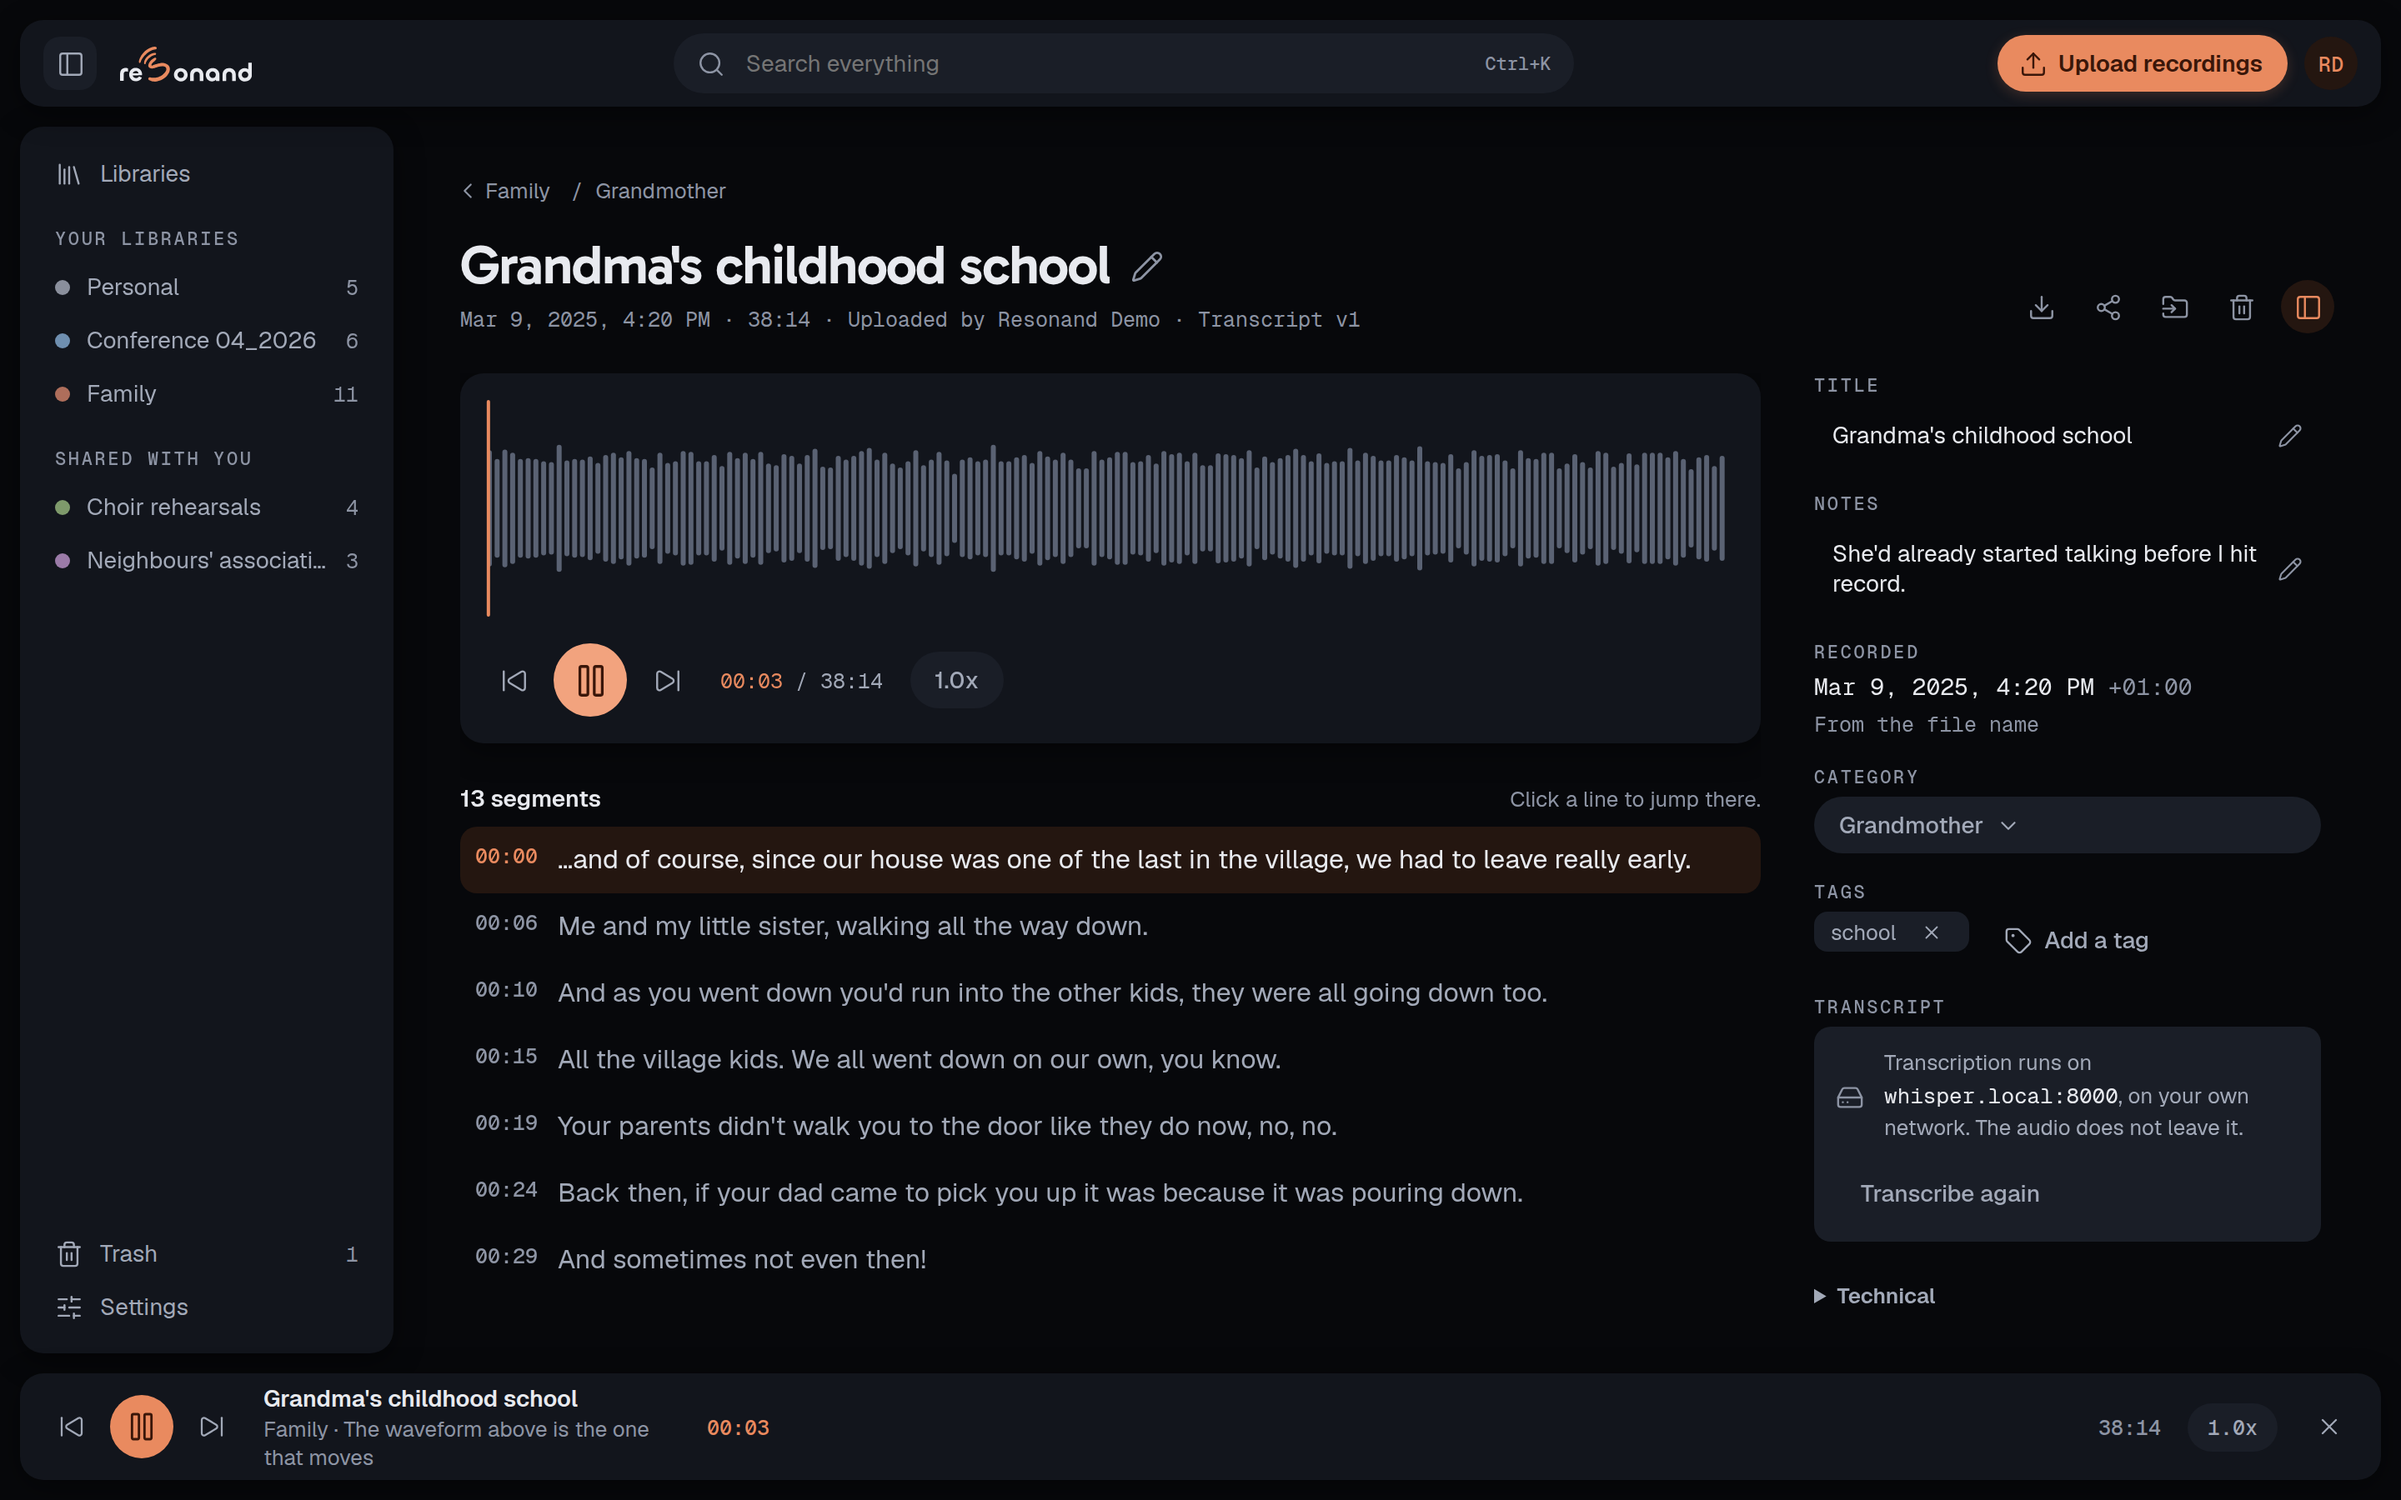
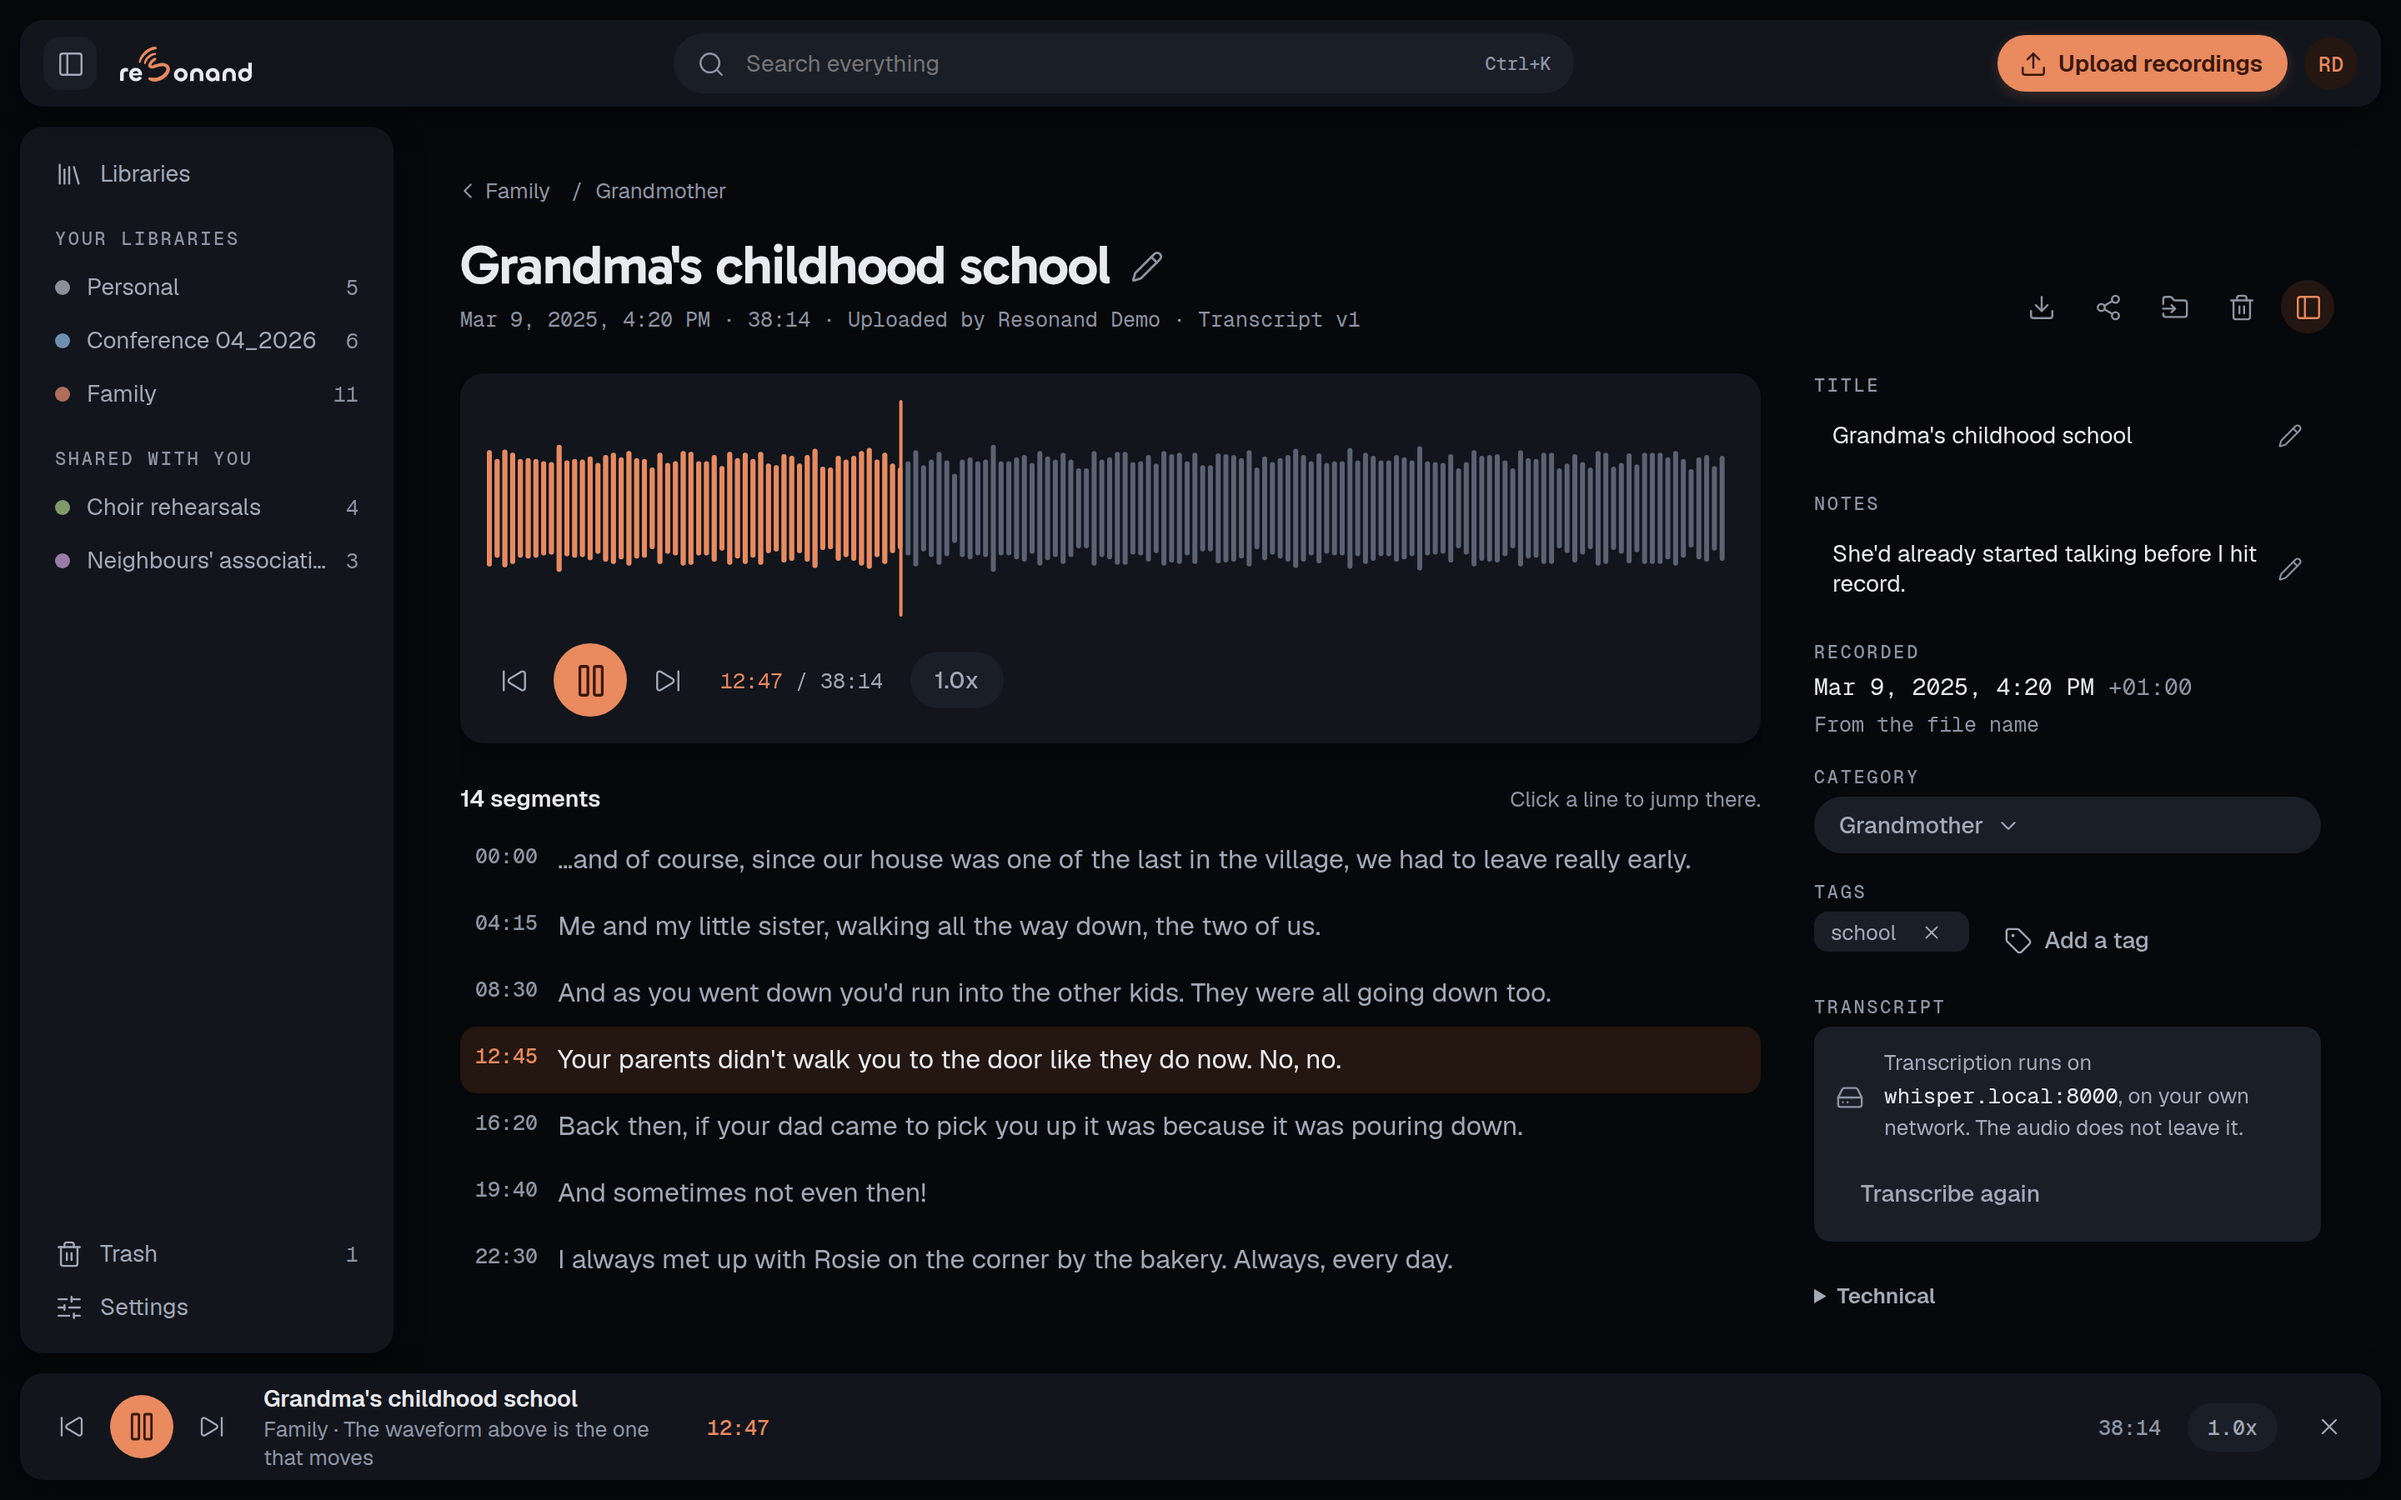
docs: show the hero recording playing, a third of the way through
The screenshot at the top of the README sat three seconds into a
thirty-eight minute recording, so the waveform was a single colour and
the transcript had nothing picked out in it. It said almost nothing
about what playing a recording in resonand looks like. It now plays
from a third of the way in, where the part already heard is drawn
behind the playhead and the line being spoken is highlighted under it.

Getting there meant fixing the archive rather than the shot. The player
panel and the transcript are one scrolling column, and following
playback centres the active line, except that a target inside the
panel's own height snaps to the top instead and leaves the panel whole.
Past that the panel scrolls away behind its own fade and the picture
loses the waveform it is of. So the line has to be the fourth or
earlier while the playhead is a third of the way in, and nothing in the
demo world met both.

What was wrong was the world. The recording runs thirty-eight minutes
and was transcribed for fifty-six seconds of them, a shape no real
archive has, which made every screenshot of a long recording a
screenshot of its first minute. Its transcript now runs the whole
length. The two library shots come back byte-identical across the
rebuild; the search shot moves because the bar at the foot of the shell
carries the same recording and its trace moved too.

REL-1a

diff --git a/docs/next-plan/release.md b/docs/next-plan/release.md
@@ -76,6 +76,31 @@ be true the moment somebody outside can see any of it.
       because the panel prints its host and a published screenshot should not carry somebody's own
       network address.
 
+- [x] **REL-1a** · **The hero shot plays from a third of the way in**, with the transcript
+      following it, so the waveform carries the played trace behind its playhead instead of
+      reading as a recording nobody has opened. Out of `REL-1`, whose shot sat at three seconds.
+
+      **Done, and the constraint was not where it looked.** The player panel and the transcript
+      are one scrolling column, and following playback centres the active line — except that a
+      target inside the panel's own height snaps to the top instead, leaving the panel whole
+      (`UI-11g`). Past that the panel scrolls away behind its fade and the shot loses the waveform
+      it is of: `opacity: 0`, measured, on the first two attempts. So the line being spoken has to
+      be the **fourth or earlier** while the playhead is a third of the way in, and no recording
+      in the world met both.
+
+      What was wrong was the demo world rather than the shot. `Grandma's childhood school` runs
+      thirty-eight minutes and was transcribed for fifty-six seconds of them — a shape no real
+      archive has, and one that made every screenshot of a long recording a screenshot of its
+      first minute. Its transcript now runs the whole length, one line every few minutes, and the
+      fourth falls at `12:45` of `38:14`. That spacing is load-bearing and `demo/content.py` says
+      so where it is written.
+
+      The cost is a rebuild of `demo-base-full` rather than anything on screen: the hero keeps the
+      library, the note, the tag and the category it always had. `library.png` and
+      `library-light.png` came back byte-identical across the rebuild, which is the world
+      reproducing itself. `search.png` is retaken because the bar at the foot of the shell carries
+      the same recording and its trace moved too.
+
 ## Gate 2 · The release
 
 Several weeks of real personal use on top of gate 1, with what went wrong fixed rather than noted.

diff --git a/README.md b/README.md
@@ -1,5 +1,5 @@
 <p align="center">
-  <img src="docs/assets/recording.png" alt="A recording open in resonand: the waveform, the transcript following playback, and the recording's metadata">
+  <img src="docs/assets/recording.png" alt="A recording open in resonand, playing a third of the way through: the waveform with the part already played drawn behind the playhead, the transcript following it with the line being spoken picked out, and the recording's metadata">
 </p>
 
 <h1 align="center">resonand</h1>
